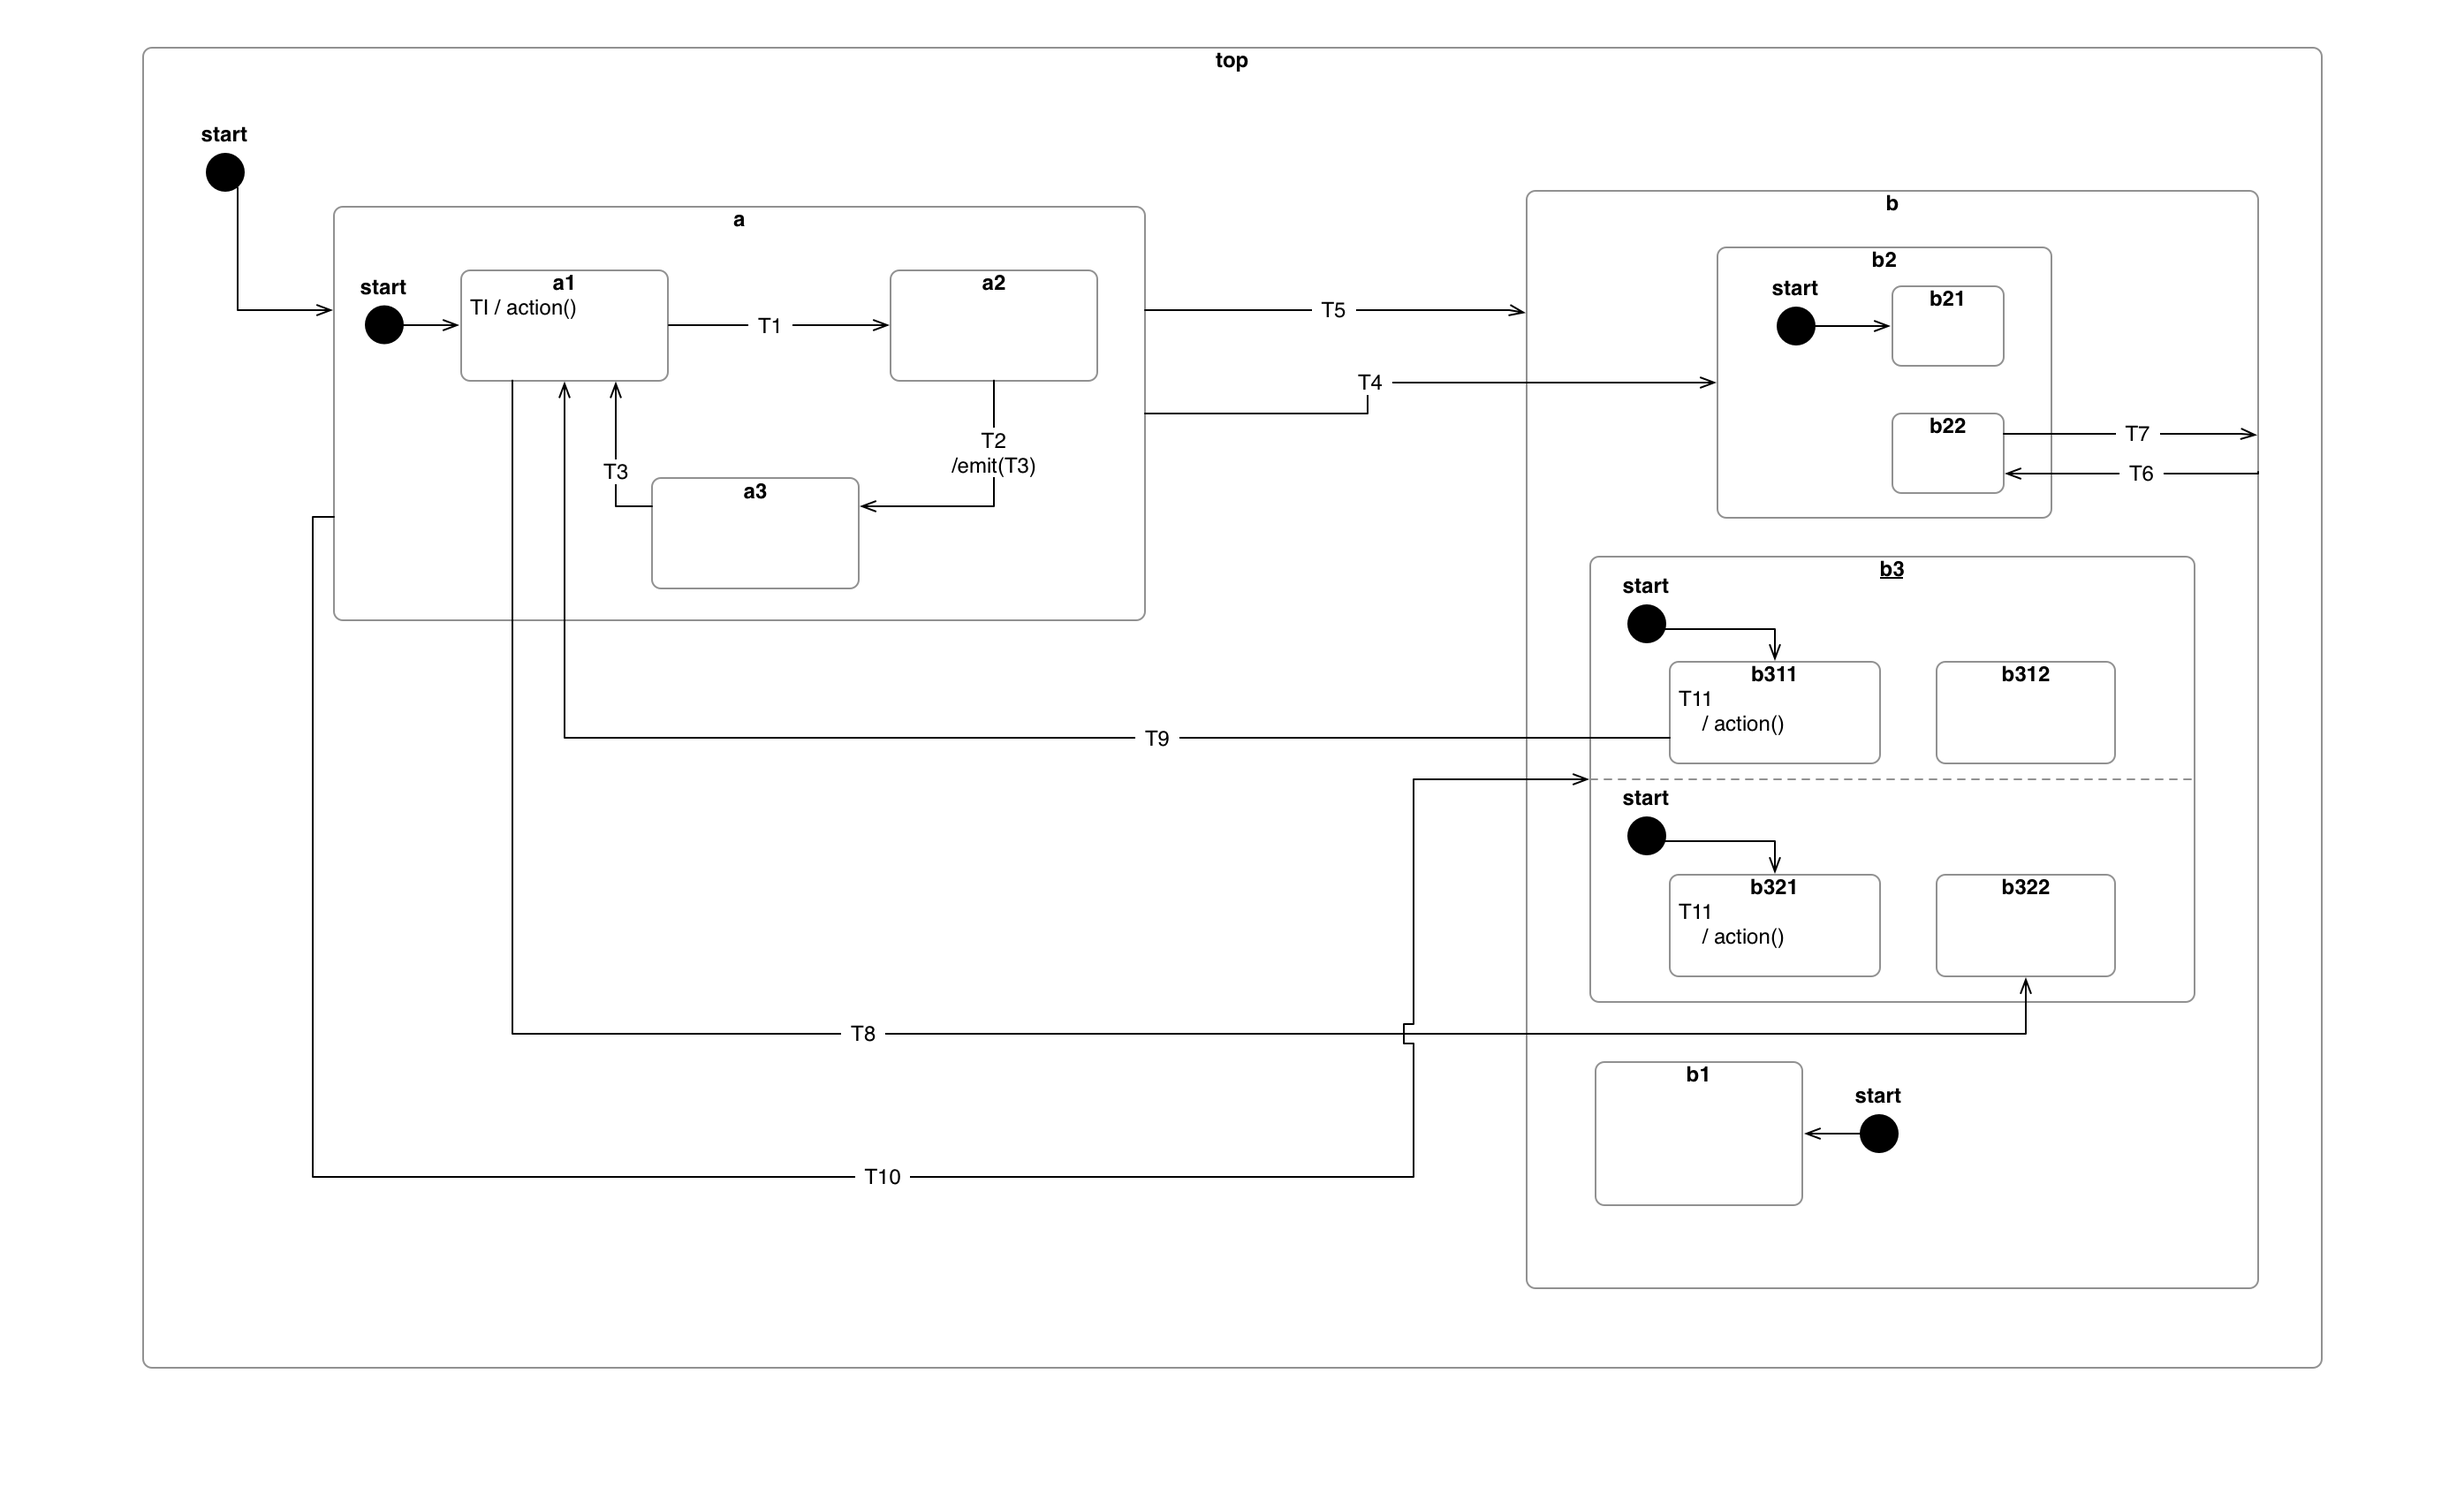
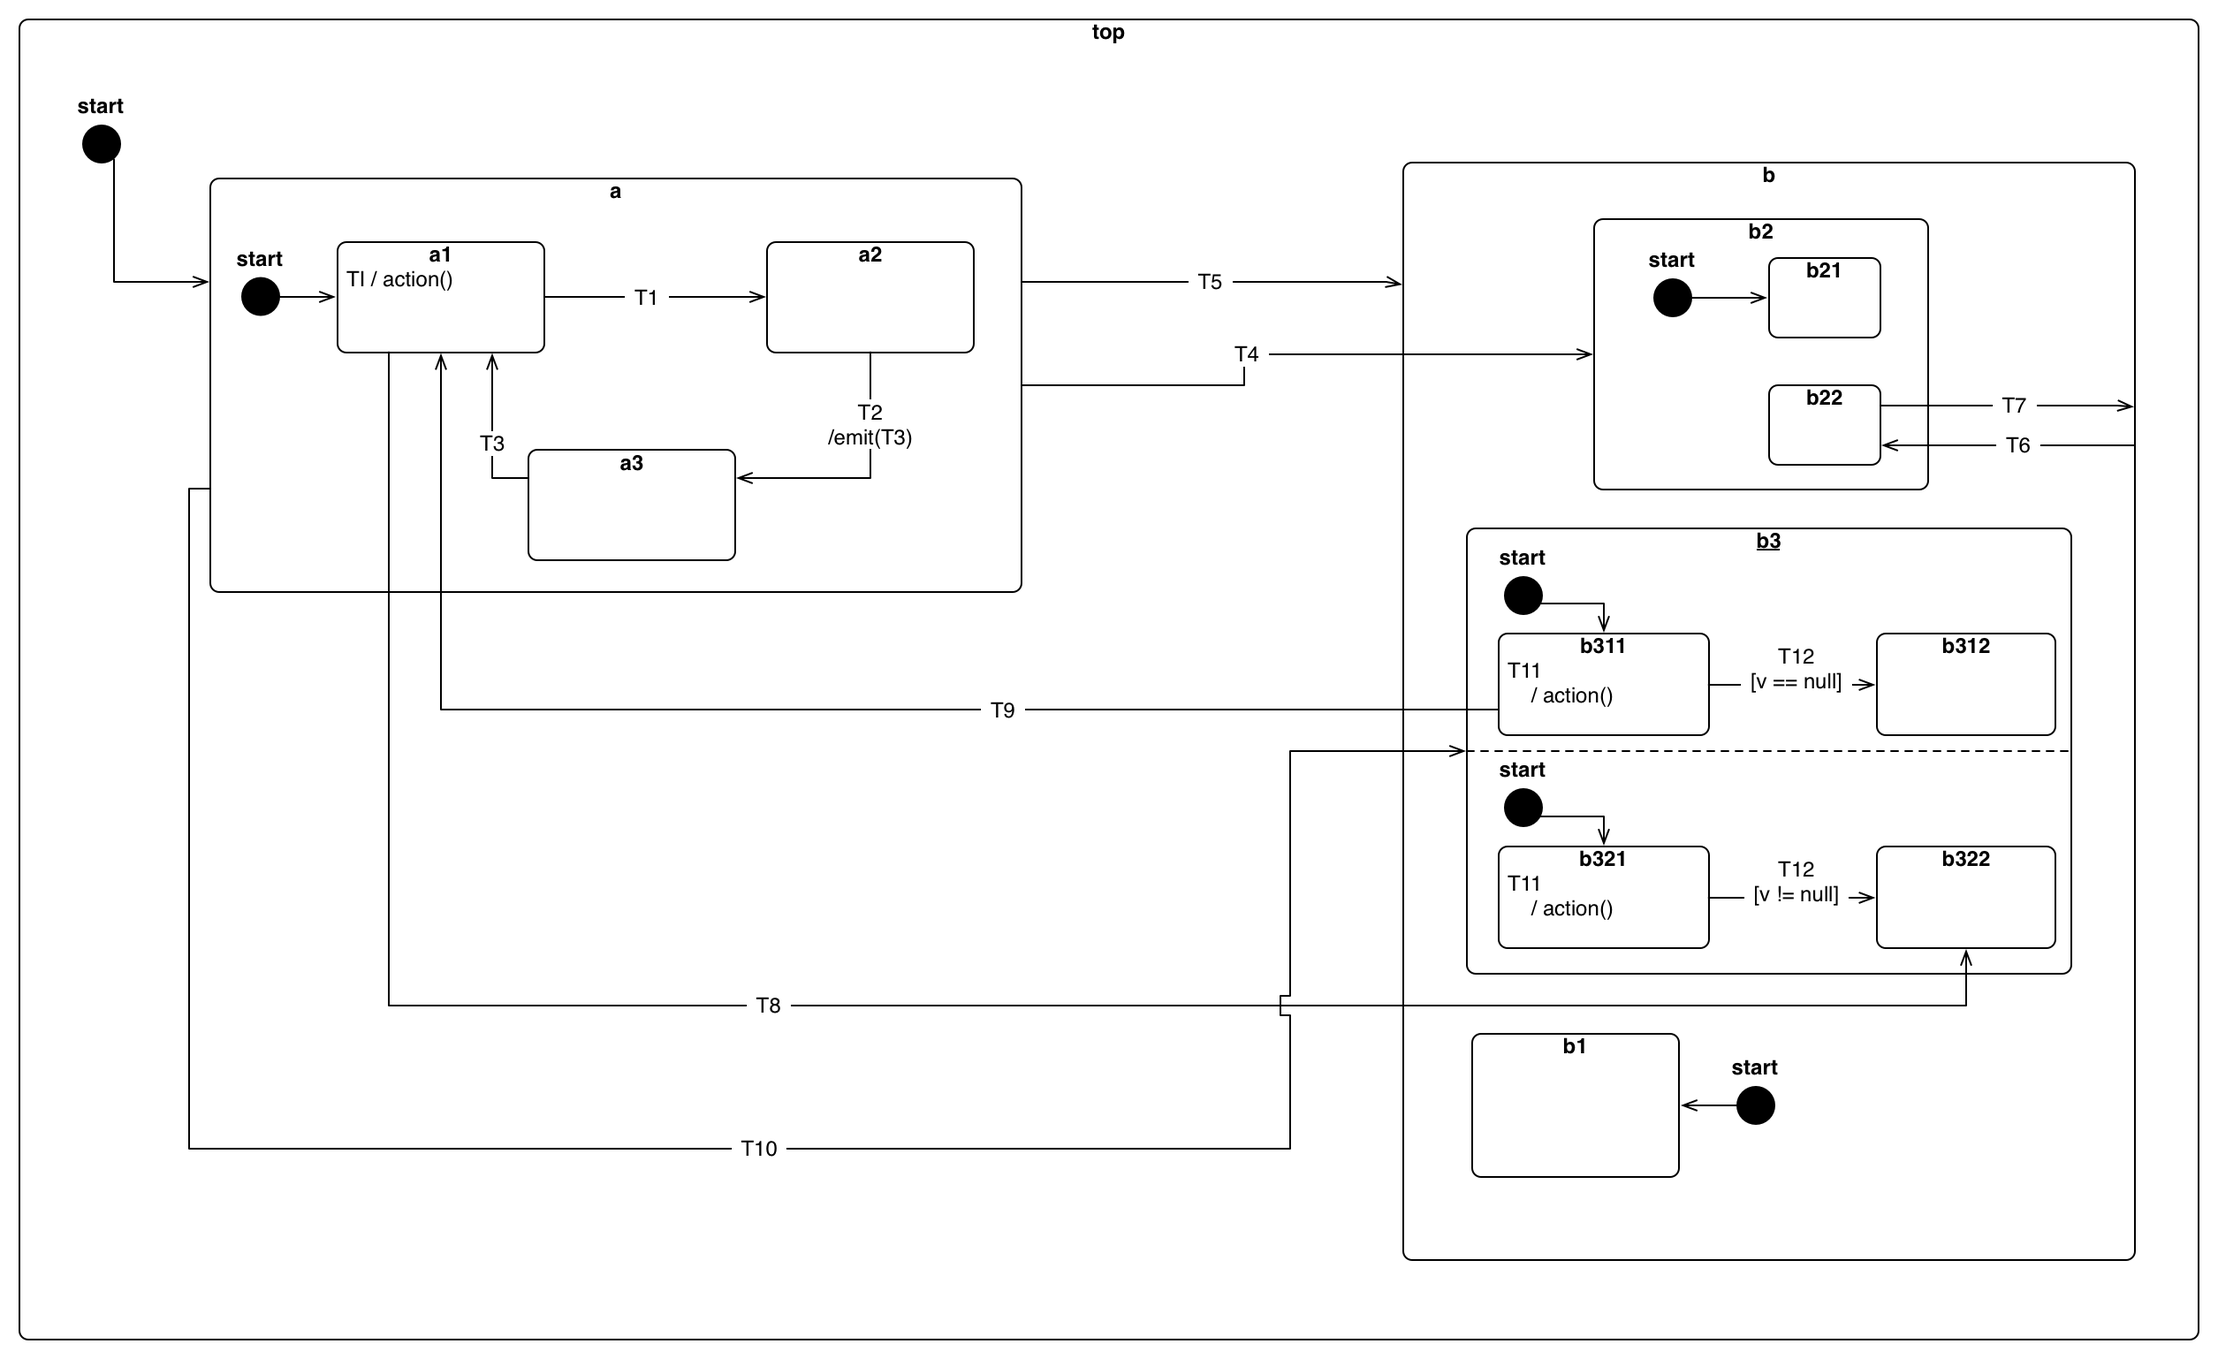
Update documentation for v3.0.0.

diff --git a/README.md b/README.md
@@ -118,7 +118,7 @@ Transition can be guarded by a specified condition:
 c11.AddHandler("T5", c12, data => {
     return (data["v"] == null);
 });
-c11.AddHandler("T5", c12, data => {
+c21.AddHandler("T5", c22, data => {
     return (data["v"] != null);
 });
 ```
